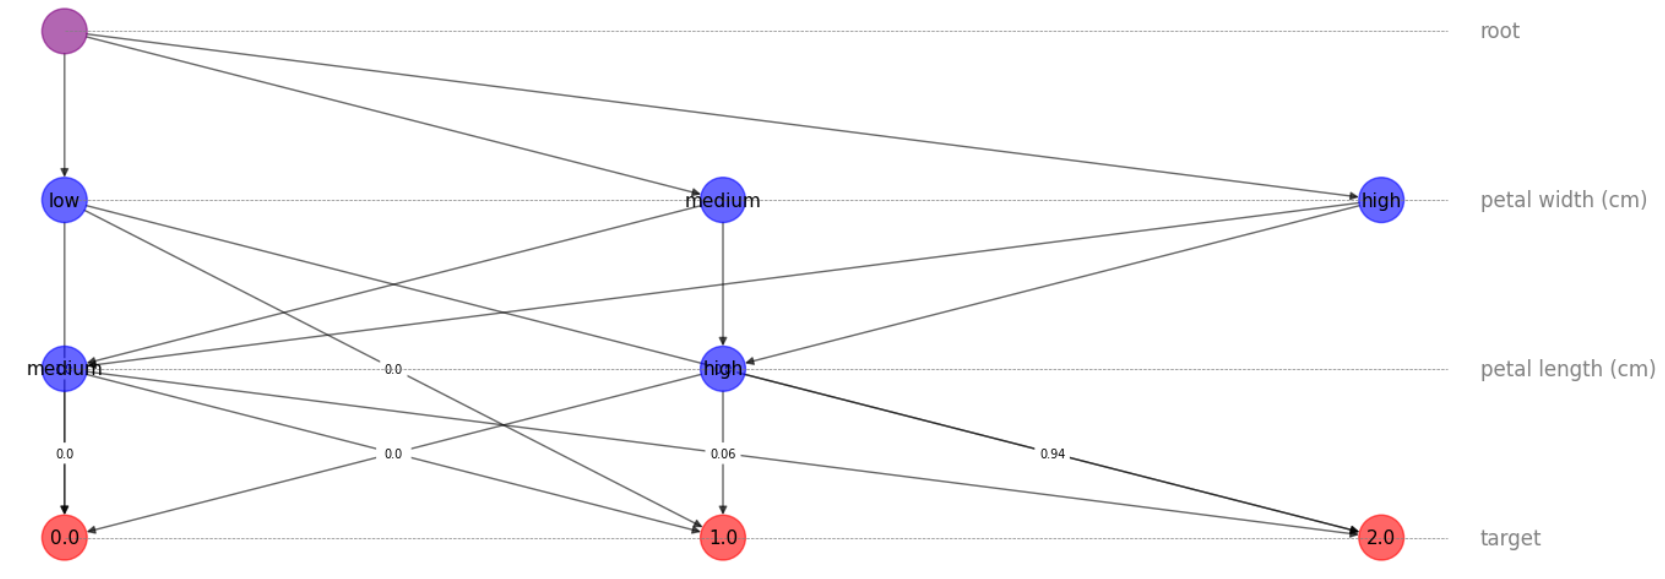
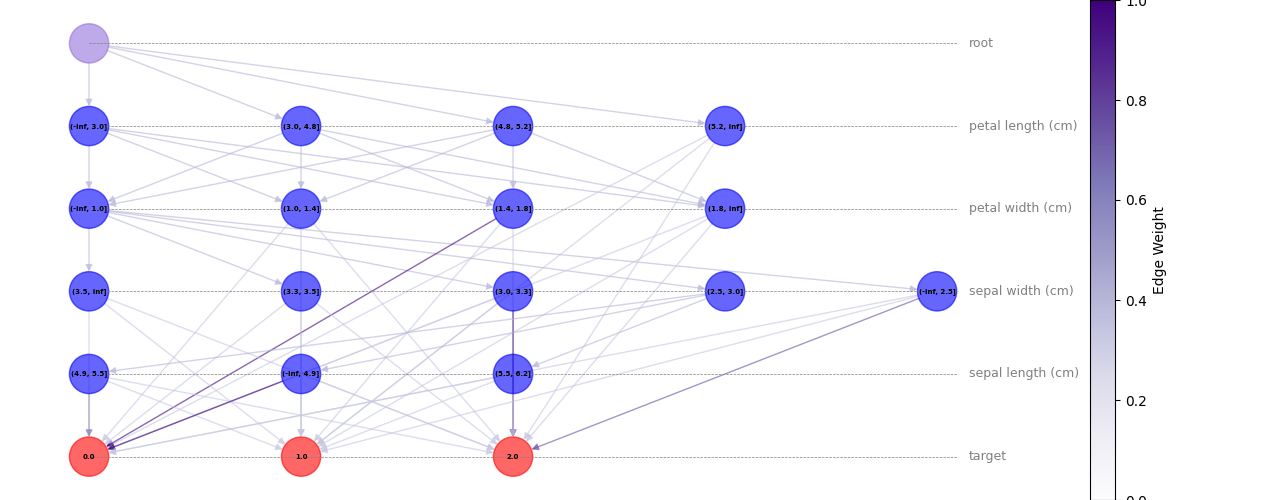
Updates in visualization method & code robustness

diff --git a/IFN.py b/IFN.py
@@ -5,6 +5,7 @@ from scipy.stats import chi2
 from scipy.optimize import fsolve
 import networkx as nx
 import matplotlib.pyplot as plt
+import matplotlib.colors as mcolors
 import logging
 from functools import wraps
 import time
@@ -176,9 +177,11 @@ class IFN:
                 bin_suggestions[attr] = thresholds
 
         # Create threshold per level if attr is ordinal
+        # bin_suggestions[attr] is the bins edges for the attribute
         for attr in bin_suggestions:
             bin_suggestions[attr] = [-float('inf')] + bin_suggestions[attr] + [float('inf')]
-            binned_column = pd.cut(self.train_data[attr], bins=bin_suggestions[attr], labels=False)
+            bin_labels = [f"({bin_suggestions[attr][i]}, {bin_suggestions[attr][i+1]}]" for i in range(len(bin_suggestions[attr])-1)]
+            binned_column = pd.cut(self.train_data[attr], bins=bin_suggestions[attr], labels=bin_labels)
             self.train_data[attr] = binned_column
         return bin_suggestions      # Replace init dictionary
 
@@ -351,6 +354,77 @@ class IFN:
         self.plot = self.__plot_network()
 
 
+    # def __plot_network(self):
+    #     '''
+    #     Plot the IFN network.
+
+    #     Returns:
+    #         matplotlib.pyplot: The plot object.
+    #     '''
+    #     G = nx.DiGraph()
+    #     colors = []
+    #     pos = {}
+    #     labels = {}
+
+    #     # Add nodes to the graph
+    #     for level_index, level in enumerate(self.levels):
+    #         for node_index, node in enumerate(level):
+    #             node_id = id(node)
+    #             G.add_node(node_id)
+    #             colors.append(node.color)
+    #             # Assign positions based on level and order within the level
+    #             pos[node_id] = (node_index, -level_index)
+    #             # Add label if the node is not a root node (purple)
+    #             if node.color != 'purple':
+    #                 labels[node_id] = node.level_attr_val
+
+    #     # Add edges to the graph, only include weights that are not None
+    #     edge_labels = {}
+    #     for (parent, child, weight) in self.edges:
+    #         parent_id = id(parent)
+    #         child_id = id(child)
+    #         # Ensure weight is a valid number and not None
+    #         if weight is not None:
+    #             # Decide which edge label to plot
+    #             if self.weights_type == 'probability':
+    #                 rounded_weight = round(weight['probability'], 2)
+    #             else:
+    #                 rounded_weight = round(weight['weight'], 2)
+    #             G.add_edge(parent_id, child_id, weight=rounded_weight)
+    #             edge_labels[(parent_id, child_id)] = rounded_weight
+    #         else:
+    #             G.add_edge(parent_id, child_id)
+
+    #     # Create a wider figure
+    #     plt.figure(figsize=(13, 5))  # Adjust the width and height as needed
+    #     # Draw the graph with bigger nodes and brighter colors
+    #     nx.draw(G, pos, with_labels=False, node_color=colors, node_size=1000, alpha=0.6)
+    #     nx.draw_networkx_labels(G, pos, labels=labels, font_size=7, font_color='black', font_family='sans-serif', font_weight='bold')
+
+    #     # Draw edge labels with smaller font size and rounded values
+    #     edge_label_options = {
+    #         "font_size": 7,
+    #         "rotate": False,
+    #     }
+    #     nx.draw_networkx_edge_labels(G, pos, edge_labels=edge_labels, **edge_label_options)
+
+    #     # Find the maximum x-coordinate of the nodes
+    #     max_x = max(x for x, y in pos.values())
+
+    #     # Draw level names with dashed lines
+    #     for level_index, level in enumerate(self.levels):
+    #         if level:
+    #             first_node = level[0]
+    #             first_node_id = id(first_node)
+    #             first_node_pos = pos[first_node_id]
+    #             level_name = first_node.level_attr  # Assuming all nodes in the level have the same level_attr
+
+    #             # Draw dashed line for the level
+    #             plt.plot([0, max_x + 0.1], [first_node_pos[1], first_node_pos[1]], color='gray', linestyle='--', linewidth=0.5)
+    #             # Add level name text slightly to the right of the most right node
+    #             plt.text(max_x + 0.15, first_node_pos[1], level_name, verticalalignment='center', fontsize=12, color='gray')
+    #     return plt
+    
     def __plot_network(self):
         '''
         Plot the IFN network.
@@ -362,49 +436,68 @@ class IFN:
         colors = []
         pos = {}
         labels = {}
+        edge_weights = []
+
+        terminal_nodes = set()
 
         # Add nodes to the graph
         for level_index, level in enumerate(self.levels):
             for node_index, node in enumerate(level):
                 node_id = id(node)
                 G.add_node(node_id)
-                colors.append(node.color)
+                # Control node color luminance
+                colors.append(node.color if node.color != 'purple' else 'mediumpurple')
                 # Assign positions based on level and order within the level
                 pos[node_id] = (node_index, -level_index)
                 # Add label if the node is not a root node (purple)
                 if node.color != 'purple':
                     labels[node_id] = node.level_attr_val
+                # Determine terminal nodes
+                if not any(child for (parent, child, _) in self.edges if id(parent) == node_id):
+                    terminal_nodes.add(node_id)
 
         # Add edges to the graph, only include weights that are not None
-        edge_labels = {}
         for (parent, child, weight) in self.edges:
             parent_id = id(parent)
             child_id = id(child)
             # Ensure weight is a valid number and not None
             if weight is not None:
-                # Decide which edge label to plot
                 if self.weights_type == 'probability':
-                    rounded_weight = round(weight['probability'], 2)
+                    edge_weights.append(weight['probability'])
                 else:
-                    rounded_weight = round(weight['weight'], 2)
-                G.add_edge(parent_id, child_id, weight=rounded_weight)
-                edge_labels[(parent_id, child_id)] = rounded_weight
+                    edge_weights.append(weight['weight'])
+                G.add_edge(parent_id, child_id)
             else:
                 G.add_edge(parent_id, child_id)
+                edge_weights.append(0.0)  # Assign a default weight if none is provided
+
+        # Normalize edge weights for colormap
+        norm = mcolors.Normalize(vmin=-0.5, vmax=max(edge_weights))
+        cmap = plt.cm.get_cmap('Purples')
+
+        # Set edge colors
+        edge_colors = []
+        for (parent, child) in G.edges():
+            if child in terminal_nodes:
+                weight = edge_weights.pop(0)
+                edge_colors.append(cmap(norm(weight)))
+            else:
+                edge_colors.append(cmap(0.4))  # Medium grey for non-terminal edges
 
         # Create a wider figure
         plt.figure(figsize=(13, 5))  # Adjust the width and height as needed
+
         # Draw the graph with bigger nodes and brighter colors
-        nx.draw(G, pos, with_labels=False, node_color=colors, node_size=700, alpha=0.6)
-        nx.draw_networkx_labels(G, pos, labels=labels, font_size=11, font_color='black')
+        nx.draw(G, pos, with_labels=False, node_color=colors, node_size=800, alpha=0.6, edge_color=edge_colors)
+        nx.draw_networkx_labels(G, pos, labels=labels, font_size=5, font_color='black', font_family='sans-serif', font_weight='bold')
 
-        # Draw edge labels with smaller font size and rounded values
-        edge_label_options = {
-            "font_size": 7,
-            "rotate": False,
-        }
-        nx.draw_networkx_edge_labels(G, pos, edge_labels=edge_labels, **edge_label_options)
-
+        # Add a color bar as a legend
+        norm = mcolors.Normalize(vmin=0, vmax=max(edge_weights))
+        sm = plt.cm.ScalarMappable(cmap=cmap, norm=norm)
+        sm.set_array([])
+        cbar = plt.colorbar(sm)
+        cbar.set_label('Edge Weight')
+    
         # Find the maximum x-coordinate of the nodes
         max_x = max(x for x, y in pos.values())
 
@@ -419,10 +512,11 @@ class IFN:
                 # Draw dashed line for the level
                 plt.plot([0, max_x + 0.1], [first_node_pos[1], first_node_pos[1]], color='gray', linestyle='--', linewidth=0.5)
                 # Add level name text slightly to the right of the most right node
-                plt.text(max_x + 0.15, first_node_pos[1], level_name, verticalalignment='center', fontsize=12, color='gray')
+                plt.text(max_x + 0.15, first_node_pos[1], level_name, verticalalignment='center', fontsize=9, color='gray')
+         
         return plt
 
-
+    
     def show(self):
         '''
         Display the plot of the IFN network.
@@ -513,5 +607,6 @@ class IFN:
         # Create appropriate bins in input data
         if self.bin_suggestions:
             for attr in self.bin_suggestions:
-                df[attr] = pd.cut(df[attr], bins=self.bin_suggestions[attr], labels=False)
+                bin_labels = [f"({self.bin_suggestions[attr][i]}, {self.bin_suggestions[attr][i+1]}]" for i in range(len(self.bin_suggestions[attr])-1)]
+                df[attr] = pd.cut(df[attr], bins=self.bin_suggestions[attr], labels=bin_labels)
         return df.apply(lambda record: self.__predict_record(record), axis=1)

diff --git a/main.py b/main.py
@@ -40,6 +40,6 @@ def main(how = 'binned'):
     test_model(ifn_cat, test_data)
 
 if __name__ == "__main__":
-    data_prep = 'binned'    # Replace with None if you want it as is
-    # data_prep = None    # Replace with binned if you want it ninned
+    # data_prep = 'binned'    # Replace with None if you want it as is
+    data_prep = None    # Replace with binned if you want it ninned
     main(data_prep)
